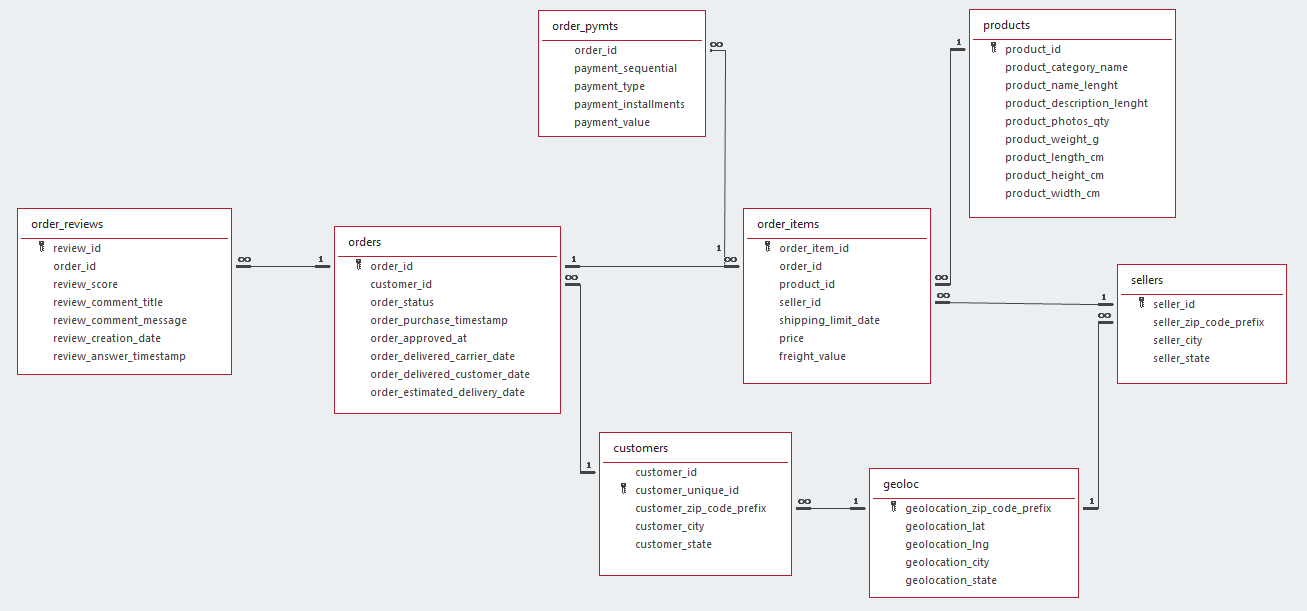
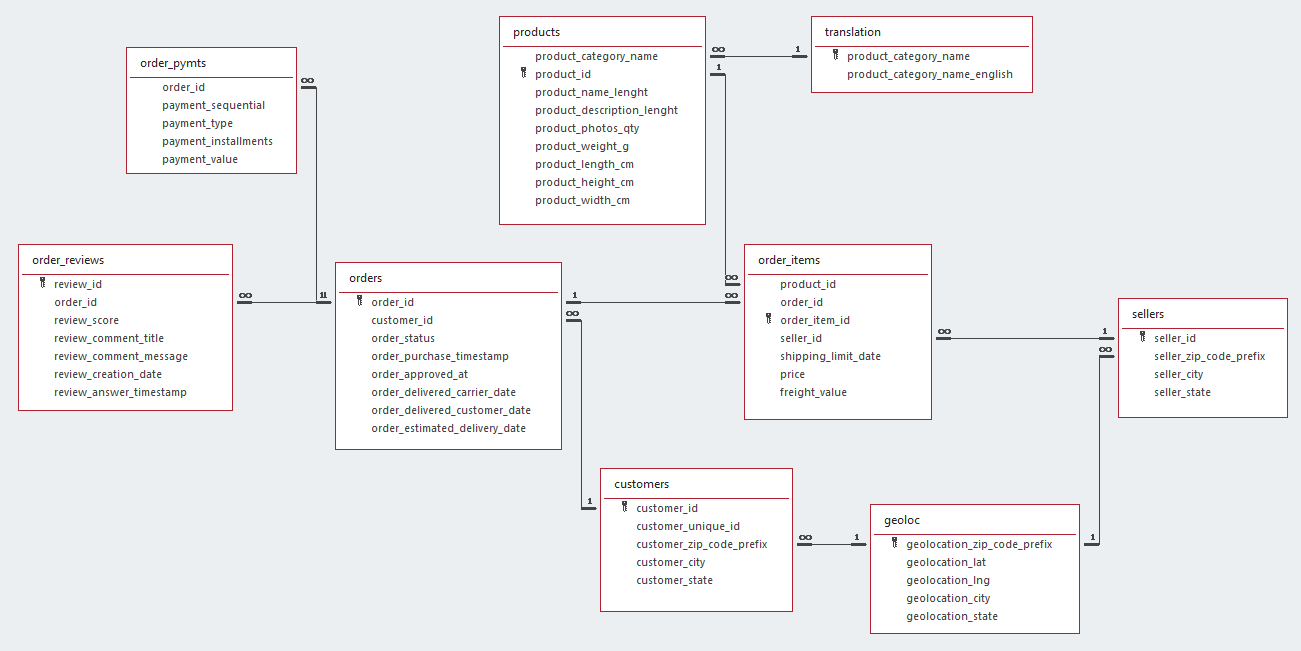
Mise à jour du schéma relationnel

diff --git a/README.md b/README.md
@@ -66,6 +66,9 @@
   
 ## Notebook 1 - Requêtes SQL pour dashboard  
 
+#### 20-04 14:09  
+* Mise à jour du schéma relationnel  
+
 #### 20-04 11:51
 * Ajout fichier `dashboard_queries.sql`
 
